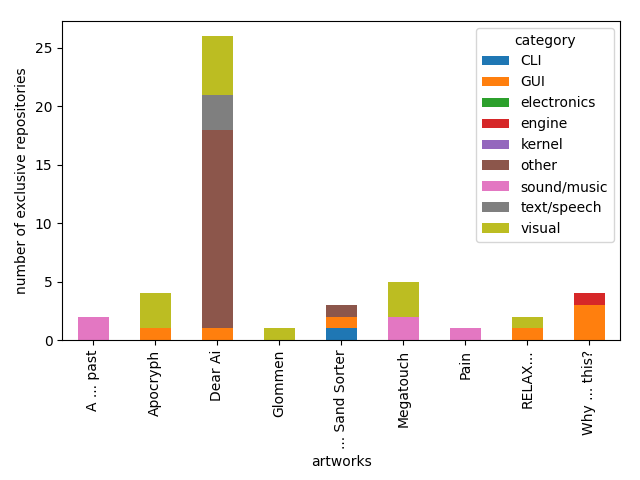
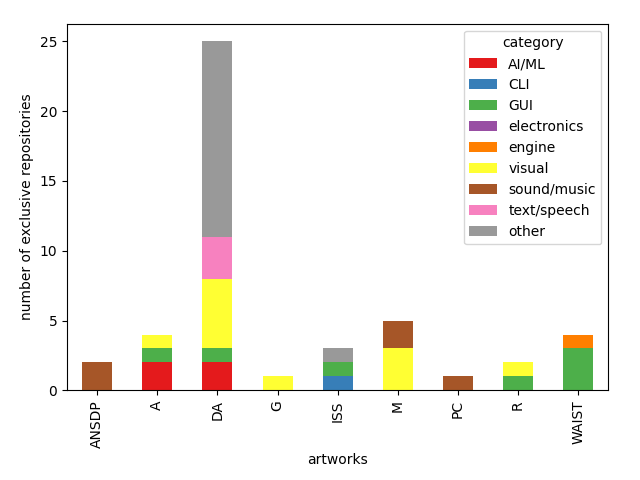
better & updated visualizations

diff --git a/code/myriad/loam_paper/visualization/script.py b/code/myriad/loam_paper/visualization/script.py
@@ -1,7 +1,6 @@
 import json
 import pandas as pd
 import matplotlib.pyplot as plt
-import seaborn as sns
 
 repos_info = pd.read_json("../dataset/repos_info.json")
 all_loggedin_contributors = pd.read_json("../dataset/all_loggedin_contributors.json")
@@ -9,7 +8,6 @@ all_loggedin_contributors = pd.read_json("../dataset/all_loggedin_contributors.j
 with open("../dataset/categories_info.json", "r") as f:
 	categories_info = json.load(f)
 category_names = [c["category"] for c in categories_info]
-category_names.sort()
 
 def avg_contributors_per_category_barplot():
     # average number of anon/loggedin contributors per category
@@ -17,33 +15,33 @@ def avg_contributors_per_category_barplot():
     for cat_info in categories_info:
         category = cat_info["category"]
         repos = repos_info.loc[repos_info["category"] == category]
-        avg_anonymous = repos.loc[:, "anonymous_contributors"].mean()
         avg_loggedin = repos.loc[:, "loggedin_contributors"].mean()
-        if avg_anonymous == avg_anonymous: data.append(
-            {
+        avg_anonymous = repos.loc[:, "anonymous_contributors"].mean()
+        if avg_anonymous is not None: 
+            data.append({
                 "category": category,
                 "logged-in": avg_loggedin,
                 "anonymous": avg_anonymous
-            }
-        )
+            })
     data = pd.DataFrame(data)
-    data.set_index("category").plot(kind="bar", stacked=False, color=["steelblue", "red"])
-    plt.yscale("log")
-    plt.xlabel("category")
-    plt.ylabel("average number of contributors")
-    plt.show()
 
-def contributions_years_scatterplot():
-    # relationship between date created and number of contributions
-    g = sns.relplot(
-        data=repos_info,
-        x="created_at", y="total_contributions",
-        hue="category", size=10
-    )
-    g.set(yscale="log")
-    plt.xticks(rotation=90)
-    plt.xlabel("year of creation/apparition on GitHub")
-    plt.ylabel("total number of contributions")
+    fig = plt.figure()
+    ax = fig.add_subplot(111)
+    ax2 = ax.twinx()
+
+    data.set_index("category").plot(kind="bar", color=["red", "orange"], stacked=False, ax=ax, width=0.5, position=0.5)
+    x = [cat["category"] for cat in categories_info]
+    y = [len(cat["repos"]) for cat in categories_info]
+    second_color = "#377eb8"
+    ax2.plot(x, y, ".", markersize=15)
+   
+    ax.set_ylabel("average number of contributors")
+    ax.set_yscale("log")
+    ax.legend(title="type of contributor", loc="upper left")
+    ax2.set_ylabel("number of repos", color=second_color)
+    ax2.tick_params(axis="y", colors=second_color)
+    ax2.spines["right"].set(color=second_color, linewidth=2)
+
     plt.show()
 
 def repos_per_year_barplot():
@@ -72,16 +70,27 @@ def multi_contributors_barplot():
     idx = 0
     while all_loggedin_contributors.iloc[idx]["type"] == "Bot":
         idx+=1
-    data = [{"number of repos contributed to": i+1, "number of accounts": 0} for i in range(len(all_loggedin_contributors.iloc[idx]["contributions"]))]
+    data = [{"number of repos contributed to": i+1, "one category": 0, "multiple categories": 0} for i in range(len(all_loggedin_contributors.iloc[idx]["contributions"]))]
     for index, row in all_loggedin_contributors.iterrows():
         if (row["type"] == "Bot"): continue
-        nb_repos_contributed_to = len(row["contributions"])-1
-        data[nb_repos_contributed_to]["number of accounts"] += 1
-    data = pd.DataFrame(data)
-    g = sns.barplot(data, x="number of repos contributed to", y="number of accounts", color="orange")
-    g.bar_label(g.containers[0])
-    plt.yscale("log")
+        contributions = row["contributions"]
+        categories = []
+        for contrib in contributions:
+            for cat in categories_info:
+                if contrib["repo_name"] in cat["repos"]:
+                    categories.append(cat["category"])
+                    break
+        categories = list(set(categories))
+        nb_repos_contributed_to = len(contributions)-1
+        if len(categories) == 1:
+            data[nb_repos_contributed_to]["one category"] += 1
+        else:
+            data[nb_repos_contributed_to]["multiple categories"] += 1
+    data = pd.DataFrame(data[1:])
+    data.set_index("number of repos contributed to").plot(kind="bar", stacked=False)
     plt.ylabel("user count")
+    plt.yscale("log")
+    plt.legend(title="type of contributions")
     plt.show()
 
 def exclusive_repos_per_artwork_barplot():
@@ -91,7 +100,7 @@ def exclusive_repos_per_artwork_barplot():
     artworks.remove("loam")
     artworks.sort()
     data = []
-    for a in ["A ... past", "Apocryph", "Dear Ai", "Glommen", "... Sand Sorter", "Megatouch", "Pain", "RELAX...", "Why ... this?"]:
+    for a in ["ANSDP", "A", "DA", "G", "ISS", "M", "PC", "R", "WAIST"]:
         o = {"exclusivity": a}
         for cat in category_names:
             o[cat] = 0
@@ -103,14 +112,13 @@ def exclusive_repos_per_artwork_barplot():
         category = row["category"]
         data[idx][category] += 1
     data = pd.DataFrame(data)
-    data.set_index("exclusivity").plot(kind="bar", stacked=True)
+    data.set_index("exclusivity").plot(kind="bar", stacked=True, cmap="Set1")
     plt.xlabel("artworks")
     plt.ylabel("number of exclusive repositories")
     plt.legend(title="category")
     plt.show()
 
 avg_contributors_per_category_barplot()
-#contributions_years_scatterplot()
-repos_per_year_barplot()
+#repos_per_year_barplot()
 multi_contributors_barplot()
 exclusive_repos_per_artwork_barplot()
